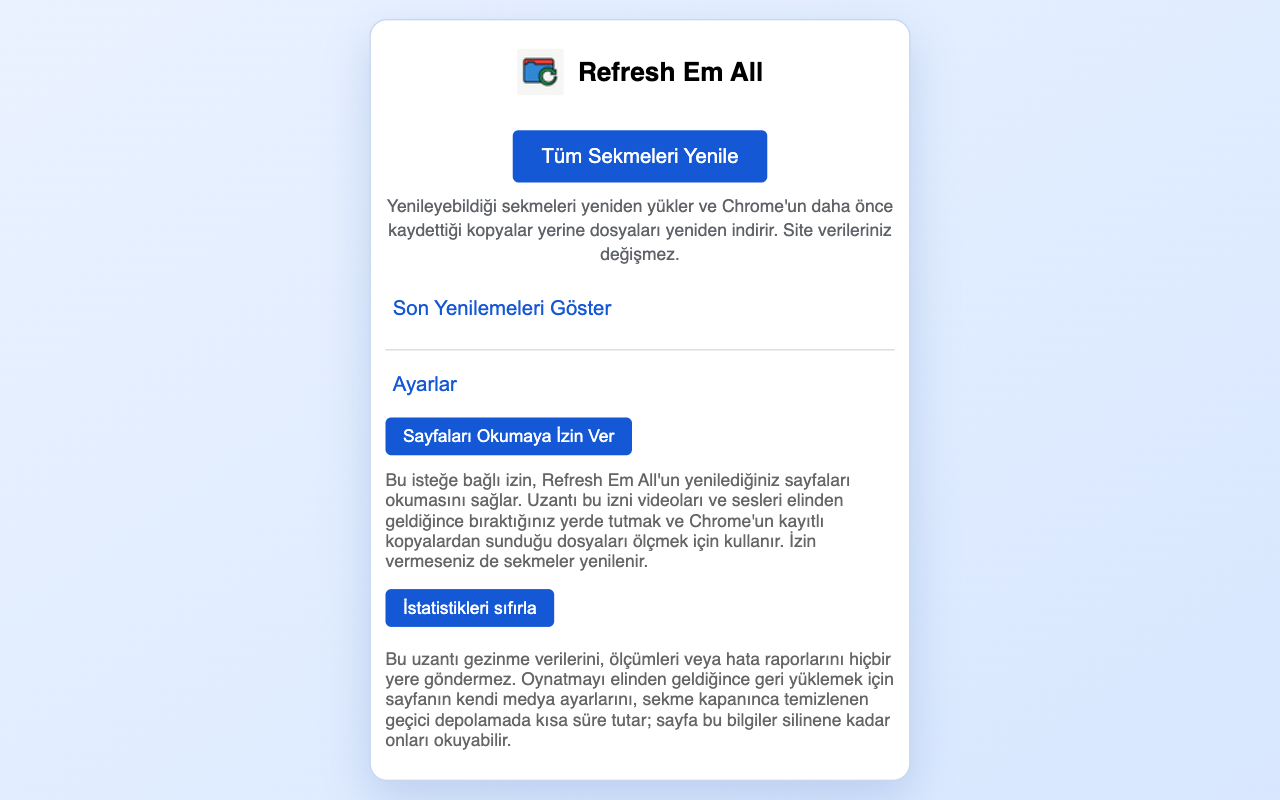
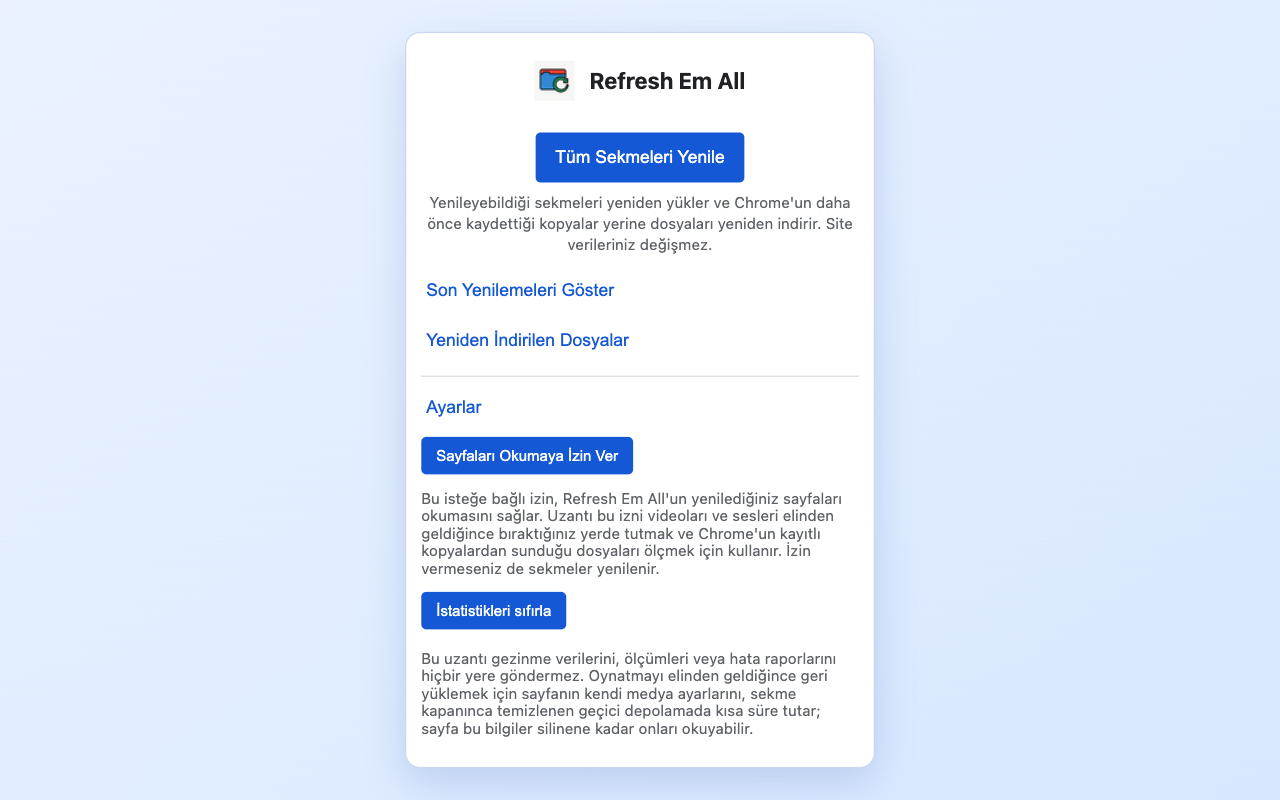
chore(release): prepare 2.4.3 and recapture Store screenshots
The listing carried v2.4.1 screenshots. They were genuinely stale, because
v2.4.2 rethemed the popup, so they are recaptured here from the verified v2.4.3
package rather than carried forward.

Recapturing needed two fixes to the capture script:

The rethemed popup is 589 CSS px tall and no longer fitted the 880x550 capture
viewport, which failed closed. The viewport is now 1024x640 at a 1.25 device
scale factor, still exactly the 1280x800 the Store requires.

The capture never pinned a color scheme. v2.4.2 added a dark theme, so on a
runner reporting dark the popup rendered near-white text onto the capture's
forced white card and produced illegible screenshots. It now pins
prefers-color-scheme: light.

No tag, release, or Store upload yet.

Changed region(s): [[0.2812, 0.0, 0.7188, 1.0]]

diff --git a/scripts/chrome-web-store/capture-screenshots.js b/scripts/chrome-web-store/capture-screenshots.js
@@ -164,6 +164,10 @@ async function createFixtureServer() {
 }
 
 async function applyCapturePresentation(page) {
+  // The popup gained a prefers-color-scheme dark theme, and the framing below
+  // forces a white card. Without pinning the scheme, a runner that reports dark
+  // renders near-white text on that white card and the shots ship illegible.
+  await page.emulateMediaFeatures([{ name: 'prefers-color-scheme', value: 'light' }]);
   await page.addStyleTag({ content: `
     html {
       width: 100%;
@@ -200,15 +204,15 @@ async function applyCapturePresentation(page) {
 
 async function capture(page, screenshotDirectory, filename) {
   await applyCapturePresentation(page);
-  await page.mouse.move(10, 540);
+  await page.mouse.move(10, 630);
   const layout = await page.evaluate(() => ({
     bodyWidth: document.body.getBoundingClientRect().width,
     bodyHeight: document.body.getBoundingClientRect().height,
     scrollWidth: document.documentElement.scrollWidth,
     scrollHeight: document.documentElement.scrollHeight
   }));
-  if (layout.bodyWidth > 860 || layout.bodyHeight > 540) {
-    throw new Error(`Popup does not fit the 880x550 capture viewport: ${JSON.stringify(layout)}`);
+  if (layout.bodyWidth > 1004 || layout.bodyHeight > 630) {
+    throw new Error(`Popup does not fit the 1024x640 capture viewport: ${JSON.stringify(layout)}`);
   }
   await page.screenshot({
     path: path.join(screenshotDirectory, filename),
@@ -369,7 +373,7 @@ async function main() {
     browser = await puppeteer.launch({
       headless: false,
       userDataDir: userDataDirectory,
-      defaultViewport: { width: 880, height: 550, deviceScaleFactor: 1.4545454545454546 },
+      defaultViewport: { width: 1024, height: 640, deviceScaleFactor: 1.25 },
       env: { ...process.env, TZ: 'UTC', LANG: locale === 'en' ? 'en_US.UTF-8' : `${locale}_${locale.toUpperCase()}.UTF-8` },
       args: [
         `--disable-extensions-except=${extensionPath}`,
@@ -378,7 +382,7 @@ async function main() {
         // instead, so the app's NSUserDefaults language list has to be overridden there.
         `--lang=${locale}`,
         ...(process.platform === 'darwin' ? ['-AppleLanguages', `(${locale})`] : []),
-        '--window-size=880,550',
+        '--window-size=1024,640',
         '--disable-background-networking',
         '--disable-component-update',
         '--disable-default-apps',
@@ -390,7 +394,7 @@ async function main() {
     const extensionId = extensionIdForPath(extensionPath);
     const initialPages = await browser.pages();
     let popup = initialPages[0] || await browser.newPage();
-    await popup.setViewport({ width: 880, height: 550, deviceScaleFactor: 1.4545454545454546 });
+    await popup.setViewport({ width: 1024, height: 640, deviceScaleFactor: 1.25 });
     await popup.goto(`chrome-extension://${extensionId}/popup.html`, { waitUntil: 'domcontentloaded' });
     const attachPopupDiagnostics = targetPage => {
       targetPage.on('pageerror', error => diagnostics.popupErrors.push(error.message));
@@ -435,7 +439,7 @@ async function main() {
 
     await popup.close();
     popup = await browser.newPage();
-    await popup.setViewport({ width: 880, height: 550, deviceScaleFactor: 1.4545454545454546 });
+    await popup.setViewport({ width: 1024, height: 640, deviceScaleFactor: 1.25 });
     attachPopupDiagnostics(popup);
     await popup.goto(`chrome-extension://${extensionId}/popup.html`, { waitUntil: 'domcontentloaded' });
 
@@ -484,8 +488,8 @@ async function main() {
         extensionId,
         locale: runtimeLocale,
         timezone: 'UTC',
-        viewportCss: { width: 880, height: 550 },
-        deviceScaleFactor: 1.4545454545454546,
+        viewportCss: { width: 1024, height: 640 },
+        deviceScaleFactor: 1.25,
         outputPixels: { width: 1280, height: 800 }
       },
       fixture: {

diff --git a/docs/chrome-web-store/listing.md b/docs/chrome-web-store/listing.md
@@ -483,21 +483,17 @@ The listing assets and their reproducible sources live under
 are not included in the extension package.
 
 The icon record below is historical v2.1.0 evidence only and does not verify
-the v2.4.2 submission package's icon. The screenshot records below are v2.4.1
-evidence: they were captured from `refresh-em-all-v2.4.1.zip` (130,215 bytes,
[1 lines of base64/hex data omitted]
-predate the v2.4.2 artifact recorded below. They were not recaptured for
-v2.4.2, so a publisher who considers the popup's appearance changed since
-v2.4.1 should recapture them before upload. The submission artifact was
-rebuilt from this working tree and recorded as follows:
+the v2.4.3 submission package's icon. The screenshots are current: all ten were
+recaptured for v2.4.3 from the artifact recorded below. The v2.4.1 set they
+replace was stale, because v2.4.2 rethemed the popup. The submission artifact
+was rebuilt from this working tree and recorded as follows:
 
-- **ZIP filename:** `refresh-em-all-v2.4.2.zip`
-- **Byte size:** 143393 bytes
+- **ZIP filename:** `refresh-em-all-v2.4.3.zip`
+- **Byte size:** 144398 bytes
 - **SHA-256:**
[1 lines of base64/hex data omitted]
-- All ten 1280×800 screenshots were captured from the v2.4.1 package described
-  above, not the v2.4.2 artifact, after the capture script verified its hash
-  and reported version; they were not recaptured for this release.
[1 lines of base64/hex data omitted]
+- All ten 1280×800 screenshots were captured from the v2.4.3 package described
+  above, after the capture script verified its hash and reported version.
   - English: `assets/screenshots/*.png` (5 files)
   - Turkish: `assets/screenshots/tr/*.png` (5 files)
 - Each capture run also asserts the popup's resolved `@@ui_locale` matches the
@@ -507,9 +503,13 @@ rebuilt from this working tree and recorded as follows:
   settings states using neutral localhost fixtures and an isolated browser
   profile. Browser chrome, URLs, personal data, local paths, DevTools,
   automation banners, and test identifiers are excluded.
-- Measured popup geometry is identical in both locales at 372×217–349 CSS px
-  inside a 640×400 viewport, with no horizontal overflow, so the longer Turkish
-  strings fit the 350 px popup without clipping.
+- The capture viewport is 1024×640 CSS px at a 1.25 device scale factor, which
+  is exactly the 1280×800 the Store requires. It was widened from 880×550 for
+  v2.4.3 because the rethemed popup is 589 CSS px tall and no longer fitted the
+  old frame. Both locales fit without clipping or horizontal overflow.
+- The capture pins `prefers-color-scheme: light`. The popup gained a dark theme
+  in v2.4.2, and on a runner reporting dark it rendered near-white text onto the
+  capture's white card, which produced illegible screenshots.
 - The required 440×280 promotional PNG is rendered from a self-contained SVG
   source with repository-local tooling and no external fonts or images.
 - The packaged 128×128 icon remains unchanged for v2.1.0. Its opaque padding is
@@ -525,18 +525,18 @@ Repository-verifiable items are ticked only where this release actually verified
 them. Dashboard-only items live in
 [`dashboard-checklist.md`](dashboard-checklist.md) and are **not** ticked here.
 
-- [ ] Generate five 1280×800 English PNG screenshots from the actual verified
-      v2.4.2 package, showing the popup before, during, and after a refresh plus
+- [x] Generate five 1280×800 English PNG screenshots from the actual verified
+      v2.4.3 package, showing the popup before, during, and after a refresh plus
       local history and privacy settings. Human visual approval is still
       required.
-- [ ] Generate the matching five Turkish 1280×800 screenshots from the same
-      verified v2.4.2 package with a Turkish browser UI locale. Human visual
+- [x] Generate the matching five Turkish 1280×800 screenshots from the same
+      verified v2.4.3 package with a Turkish browser UI locale. Human visual
       approval is still required.
 - [x] Generate the required 440×280 PNG promotional image from its repository
       SVG source. Human visual approval is still required.
-- [ ] Validate the 128×128 icon in the actual v2.4.2 package against current
+- [ ] Validate the 128×128 icon in the actual v2.4.3 package against current
       Store guidance. Record any retained opaque padding as a known limitation.
-- [ ] Confirm the actual v2.4.2 package contains both locale catalogs and
+- [ ] Confirm the actual v2.4.3 package contains both locale catalogs and
       nothing undeclared. The packaging allowlist fails closed on an undeclared
       locale, a stray file inside `_locales/`, or a missing default-locale
       catalog.
